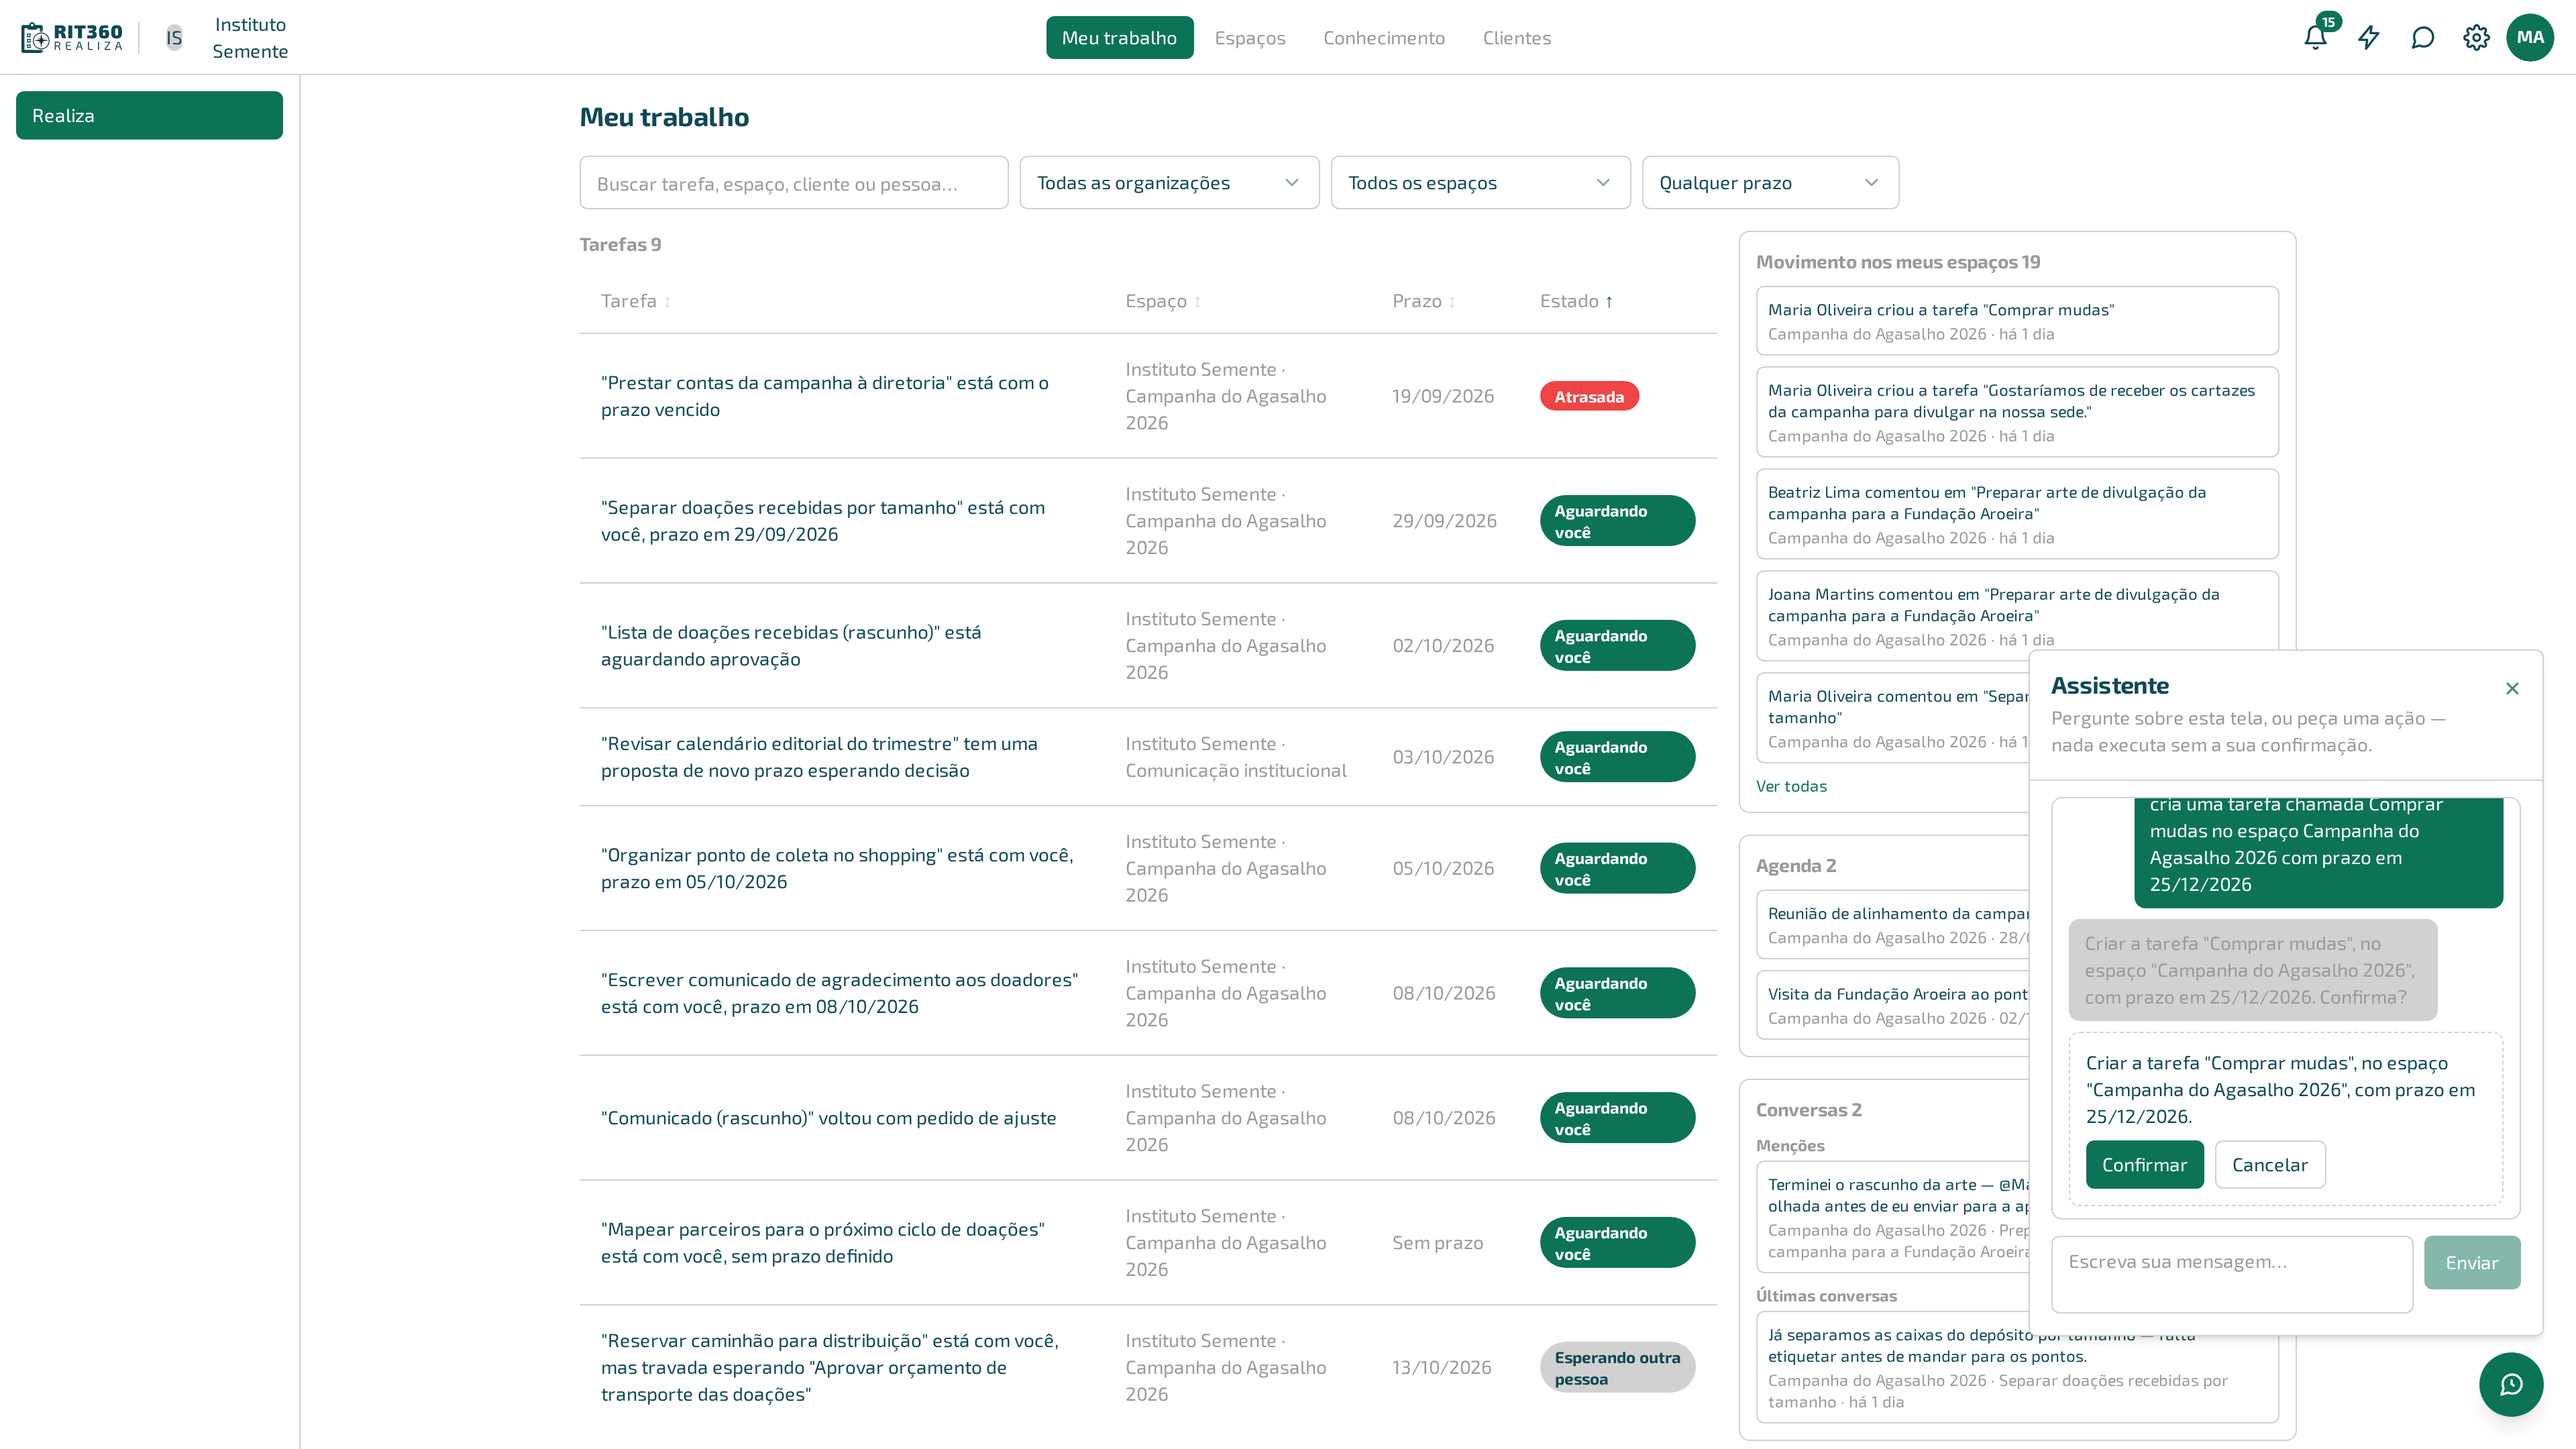
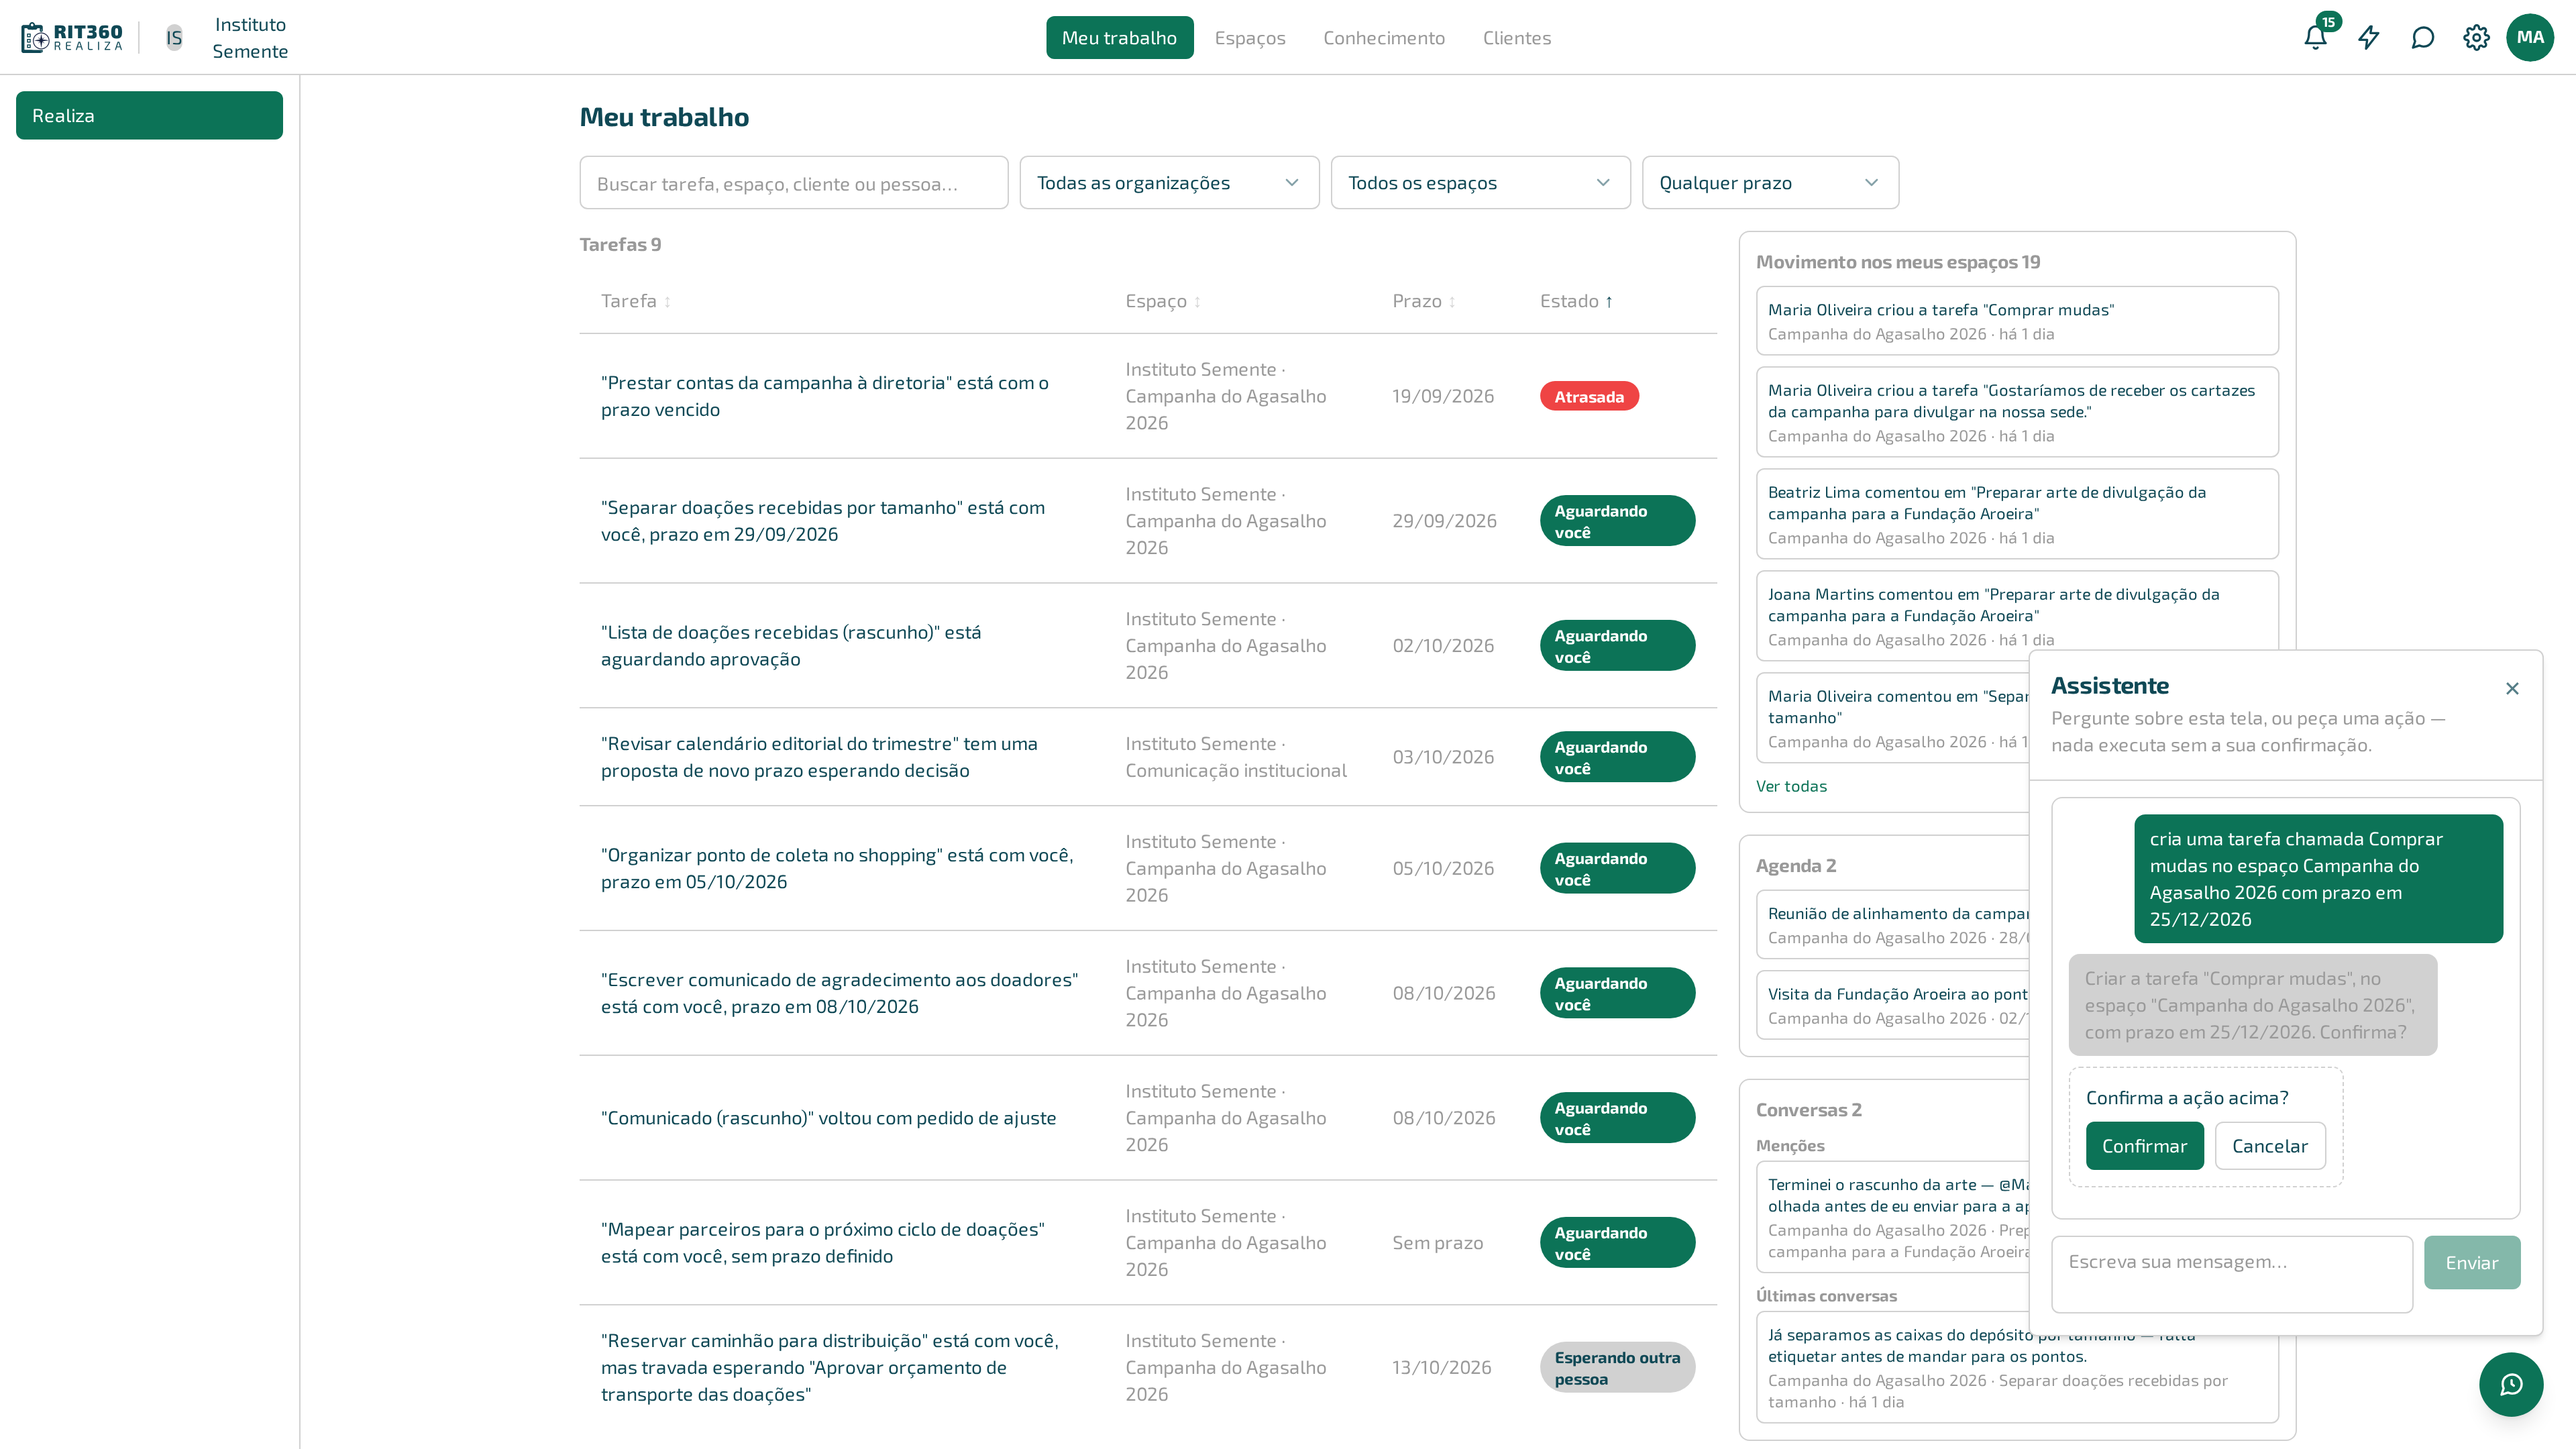
docs(manual): publica 2026-09-25

Changed region(s): [[0.7812, 0.5273, 0.9688, 0.8375]]

diff --git a/assistente.md b/assistente.md
@@ -93,7 +93,8 @@ explica o passo, e o link para a página inteira, caso ela queira ver mais.
 ## Confirmar ou cancelar uma ação
 
 Quando o pedido envolve uma ação de verdade — criar uma tarefa, por exemplo —, o assistente nunca
-executa direto. Ele mostra uma prévia com dois botões:
+executa direto. Ele mostra a prévia na própria mensagem, terminando em "Confirma?", e logo abaixo
+um cartão com a pergunta **"Confirma a ação acima?"** e dois botões:
 
 - **"Confirmar"** — só agora a ação acontece.
 - **"Cancelar"** — nada é feito, e a prévia some da conversa.
